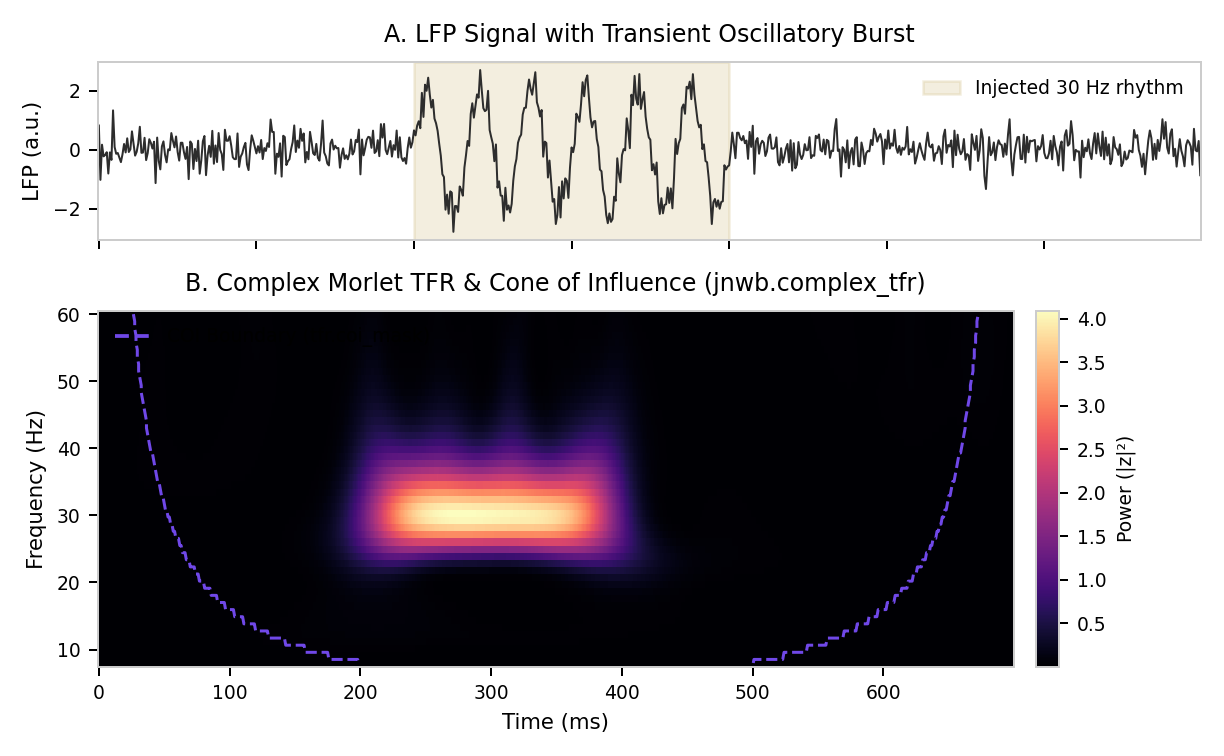
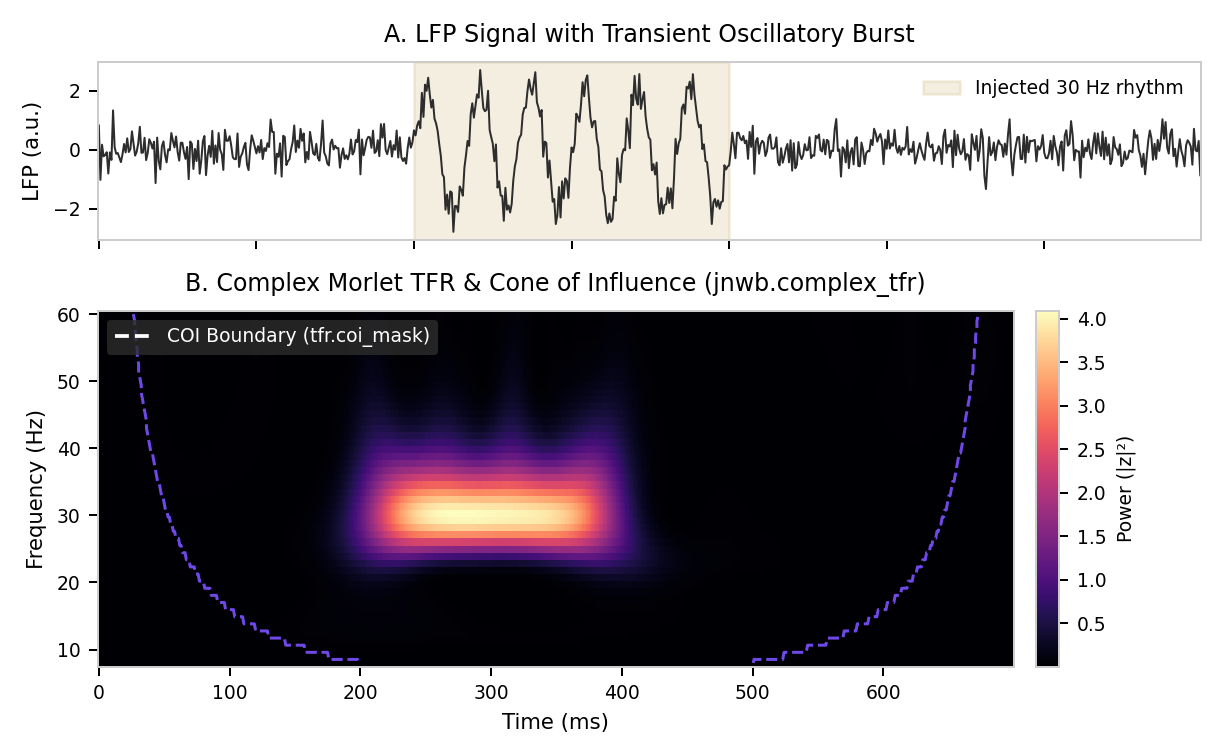
docs: refine COI legend styling in fig05 for dark theme readability

Changed region(s): [[0.0621, 0.4259, 0.3725, 0.4868]]

diff --git a/docs/generate_figures.py b/docs/generate_figures.py
@@ -258,11 +258,11 @@ def fig05_complex_tfr():
     # Cone of influence boundary
     coi_mask = tfr.coi_mask
     ax2.contour(t * 1000, freqs, coi_mask, levels=[0.5], colors=[C_VIOLET], linewidths=1.2, linestyles="--")
-    ax2.plot([], [], color=C_VIOLET, ls="--", label="COI Boundary (tfr.coi_mask)")
+    ax2.plot([], [], color="white", ls="--", lw=1.5, label="COI Boundary (tfr.coi_mask)")
     ax2.set_xlabel("Time (ms)")
     ax2.set_ylabel("Frequency (Hz)")
     ax2.set_title("B. Complex Morlet TFR & Cone of Influence (jnwb.complex_tfr)", pad=8)
-    ax2.legend(frameon=False, loc="upper left")
+    leg = ax2.legend(frameon=True, facecolor="#2d2d2d", edgecolor="none", loc="upper left", labelcolor="white", fontsize=7.5)
 
     fig.tight_layout()
     fig.savefig(OUT_DIR / "fig05_complex_tfr_coi.png")
